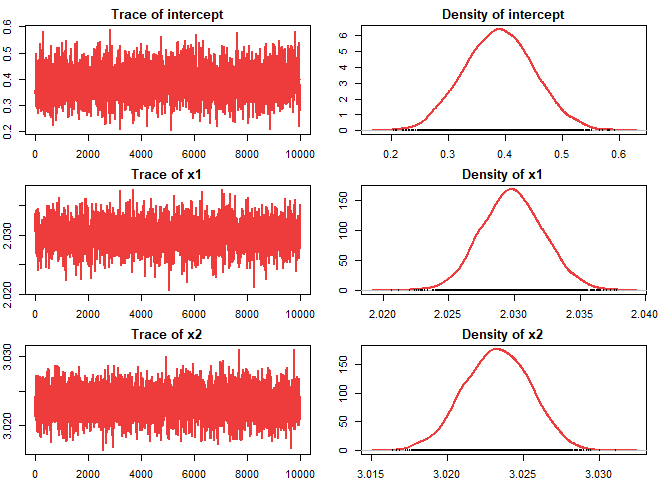
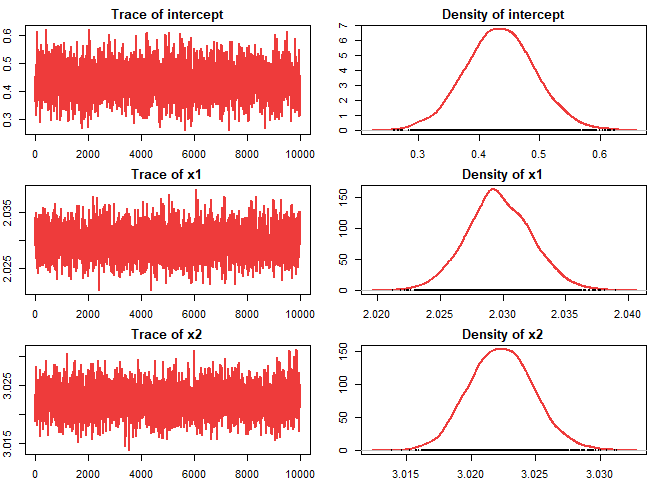
update progress

diff --git a/README.md b/README.md
@@ -158,93 +158,93 @@ hb_model <- hb_BHF(
 )
 #> Warning in FUN(X[[i]], ...): Failed to set trace monitor for muT
 #> Variable muT not found
-#> Update 2/30 | ■■■ 7% | ETA: 1m
+#> Update 2/30 | ■■■ 7% | ETA: 7m
 #> Warning in FUN(X[[i]], ...): Failed to set trace monitor for muT
 #> Variable muT not found
-#> Update 3/30 | ■■■■ 10% | ETA: 1m
+#> Update 3/30 | ■■■■ 10% | ETA: 6m
 #> Warning in FUN(X[[i]], ...): Failed to set trace monitor for muT
 #> Variable muT not found
-#> Update 4/30 | ■■■■■ 13% | ETA: 1m
+#> Update 4/30 | ■■■■■ 13% | ETA: 6m
 #> Warning in FUN(X[[i]], ...): Failed to set trace monitor for muT
 #> Variable muT not found
-#> Update 5/30 | ■■■■■■ 17% | ETA: 1m
+#> Update 5/30 | ■■■■■■ 17% | ETA: 5m
 #> Warning in FUN(X[[i]], ...): Failed to set trace monitor for muT
 #> Variable muT not found
-#> Update 6/30 | ■■■■■■■ 20% | ETA: 1m
+#> Update 6/30 | ■■■■■■■ 20% | ETA: 5m
 #> Warning in FUN(X[[i]], ...): Failed to set trace monitor for muT
 #> Variable muT not found
-#> Update 7/30 | ■■■■■■■■ 23% | ETA: 1m
+#> Update 7/30 | ■■■■■■■■ 23% | ETA: 5m
 #> Warning in FUN(X[[i]], ...): Failed to set trace monitor for muT
 #> Variable muT not found
-#> Update 8/30 | ■■■■■■■■■ 27% | ETA: 1m
+#> Update 8/30 | ■■■■■■■■■ 27% | ETA: 4m
 #> Warning in FUN(X[[i]], ...): Failed to set trace monitor for muT
 #> Variable muT not found
-#> Update 9/30 | ■■■■■■■■■■ 30% | ETA: 1m
+#> Update 9/30 | ■■■■■■■■■■ 30% | ETA: 4m
 #> Warning in FUN(X[[i]], ...): Failed to set trace monitor for muT
 #> Variable muT not found
-#> Update 10/30 | ■■■■■■■■■■■ 33% | ETA: 1m
+#> Update 10/30 | ■■■■■■■■■■■ 33% | ETA: 3m
 #> Warning in FUN(X[[i]], ...): Failed to set trace monitor for muT
 #> Variable muT not found
-#> Update 11/30 | ■■■■■■■■■■■■ 37% | ETA: 1m
+#> Update 11/30 | ■■■■■■■■■■■■ 37% | ETA: 3m
 #> Warning in FUN(X[[i]], ...): Failed to set trace monitor for muT
 #> Variable muT not found
-#> Update 12/30 | ■■■■■■■■■■■■■ 40% | ETA: 1m
+#> Update 12/30 | ■■■■■■■■■■■■■ 40% | ETA: 3m
 #> Warning in FUN(X[[i]], ...): Failed to set trace monitor for muT
 #> Variable muT not found
-#> Update 13/30 | ■■■■■■■■■■■■■■ 43% | ETA: 1m
+#> Update 13/30 | ■■■■■■■■■■■■■■ 43% | ETA: 3m
 #> Warning in FUN(X[[i]], ...): Failed to set trace monitor for muT
 #> Variable muT not found
-#> Update 14/30 | ■■■■■■■■■■■■■■■ 47% | ETA: 1m
+#> Update 14/30 | ■■■■■■■■■■■■■■■ 47% | ETA: 2m
 #> Warning in FUN(X[[i]], ...): Failed to set trace monitor for muT
 #> Variable muT not found
-#> Update 15/30 | ■■■■■■■■■■■■■■■■ 50% | ETA: 1m
+#> Update 15/30 | ■■■■■■■■■■■■■■■■ 50% | ETA: 2m
 #> Warning in FUN(X[[i]], ...): Failed to set trace monitor for muT
 #> Variable muT not found
-#> Update 16/30 | ■■■■■■■■■■■■■■■■■ 53% | ETA: 1m
+#> Update 16/30 | ■■■■■■■■■■■■■■■■■ 53% | ETA: 2m
 #> Warning in FUN(X[[i]], ...): Failed to set trace monitor for muT
 #> Variable muT not found
-#> Update 17/30 | ■■■■■■■■■■■■■■■■■■ 57% | ETA: 1m
+#> Update 17/30 | ■■■■■■■■■■■■■■■■■■ 57% | ETA: 2m
 #> Warning in FUN(X[[i]], ...): Failed to set trace monitor for muT
 #> Variable muT not found
-#> Update 18/30 | ■■■■■■■■■■■■■■■■■■■ 60% | ETA: 50s
+#> Update 18/30 | ■■■■■■■■■■■■■■■■■■■ 60% | ETA: 2m
 #> Warning in FUN(X[[i]], ...): Failed to set trace monitor for muT
 #> Variable muT not found
-#> Update 19/30 | ■■■■■■■■■■■■■■■■■■■■ 63% | ETA: 46s
+#> Update 19/30 | ■■■■■■■■■■■■■■■■■■■■ 63% | ETA: 2m
 #> Warning in FUN(X[[i]], ...): Failed to set trace monitor for muT
 #> Variable muT not found
-#> Update 20/30 | ■■■■■■■■■■■■■■■■■■■■■ 67% | ETA: 42s
+#> Update 20/30 | ■■■■■■■■■■■■■■■■■■■■■ 67% | ETA: 1m
 #> Warning in FUN(X[[i]], ...): Failed to set trace monitor for muT
 #> Variable muT not found
-#> Update 21/30 | ■■■■■■■■■■■■■■■■■■■■■■ 70% | ETA: 38s
+#> Update 21/30 | ■■■■■■■■■■■■■■■■■■■■■■ 70% | ETA: 1m
 #> Warning in FUN(X[[i]], ...): Failed to set trace monitor for muT
 #> Variable muT not found
-#> Update 22/30 | ■■■■■■■■■■■■■■■■■■■■■■■ 73% | ETA: 34s
+#> Update 22/30 | ■■■■■■■■■■■■■■■■■■■■■■■ 73% | ETA: 1m
 #> Warning in FUN(X[[i]], ...): Failed to set trace monitor for muT
 #> Variable muT not found
-#> Update 23/30 | ■■■■■■■■■■■■■■■■■■■■■■■■ 77% | ETA: 30s
+#> Update 23/30 | ■■■■■■■■■■■■■■■■■■■■■■■■ 77% | ETA: 1m
 #> Warning in FUN(X[[i]], ...): Failed to set trace monitor for muT
 #> Variable muT not found
-#> Update 24/30 | ■■■■■■■■■■■■■■■■■■■■■■■■■ 80% | ETA: 25s
+#> Update 24/30 | ■■■■■■■■■■■■■■■■■■■■■■■■■ 80% | ETA: 47s
 #> Warning in FUN(X[[i]], ...): Failed to set trace monitor for muT
 #> Variable muT not found
 #> Update 25/30 | ■■■■■■■■■■■■■■■■■■■■■■■■■■ 83% | ETA:
-#> 21s
+#> 39s
 #> Warning in FUN(X[[i]], ...): Failed to set trace monitor for muT
 #> Variable muT not found
 #> Update 26/30 | ■■■■■■■■■■■■■■■■■■■■■■■■■■■ 87% | ETA:
-#> 17s
+#> 31s
 #> Warning in FUN(X[[i]], ...): Failed to set trace monitor for muT
 #> Variable muT not found
 #> Update 27/30 | ■■■■■■■■■■■■■■■■■■■■■■■■■■■■ 90% |
-#> ETA: 13s
+#> ETA: 23s
 #> Warning in FUN(X[[i]], ...): Failed to set trace monitor for muT
 #> Variable muT not found
 #> Update 28/30 | ■■■■■■■■■■■■■■■■■■■■■■■■■■■■■ 93% |
-#> ETA: 8s
+#> ETA: 15s
 #> Warning in FUN(X[[i]], ...): Failed to set trace monitor for muT
 #> Variable muT not found
 #> Update 29/30 | ■■■■■■■■■■■■■■■■■■■■■■■■■■■■■■ 97%
-#> | ETA: 4s
+#> | ETA: 7s
 #> Warning in FUN(X[[i]], ...): Failed to set trace monitor for muT
 #> Variable muT not found
 #> 
@@ -253,9 +253,9 @@ hb_model <- hb_BHF(
 #> 
 #> ── Coefficient ─────────────────────────────────────────────────────────────────
 #>                Mean        SD      2.5%       25%       50%       75%  97.5%
-#> intercept 0.3888520 0.0603124 0.2736811 0.3463387 0.3884280 0.4297975 0.5090
-#> x1        2.0298767 0.0023656 2.0253100 2.0283008 2.0298457 2.0314584 2.0346
-#> x2        3.0232782 0.0021441 3.0189985 3.0218045 3.0232850 3.0248043 3.0273
+#> intercept 0.4352847 0.0574592 0.3211631 0.3966216 0.4353258 0.4737573 0.5488
+#> x1        2.0297136 0.0025724 2.0247324 2.0280119 2.0296175 2.0314465 2.0348
+#> x2        3.0223823 0.0024776 3.0177416 3.0206645 3.0223584 3.0240159 3.0274
 ```
 
 ## Autocorelation, Trace and Density plot
@@ -265,14 +265,15 @@ saeHB.unit::autoplot(hb_model)
 ```
 
 ![](man/figures/README-unnamed-chunk-11-1.png)<!-- -->![](man/figures/README-unnamed-chunk-11-2.png)<!-- -->
-\## Coefficients
+
+## Coefficients
 
 ``` r
 summary(hb_model)
 #>                Mean        SD      2.5%       25%       50%       75%  97.5%
-#> intercept 0.3888520 0.0603124 0.2736811 0.3463387 0.3884280 0.4297975 0.5090
-#> x1        2.0298767 0.0023656 2.0253100 2.0283008 2.0298457 2.0314584 2.0346
-#> x2        3.0232782 0.0021441 3.0189985 3.0218045 3.0232850 3.0248043 3.0273
+#> intercept 0.4352847 0.0574592 0.3211631 0.3966216 0.4353258 0.4737573 0.5488
+#> x1        2.0297136 0.0025724 2.0247324 2.0280119 2.0296175 2.0314465 2.0348
+#> x2        3.0223823 0.0024776 3.0177416 3.0206645 3.0223584 3.0240159 3.0274
 ```
 
 ``` r
